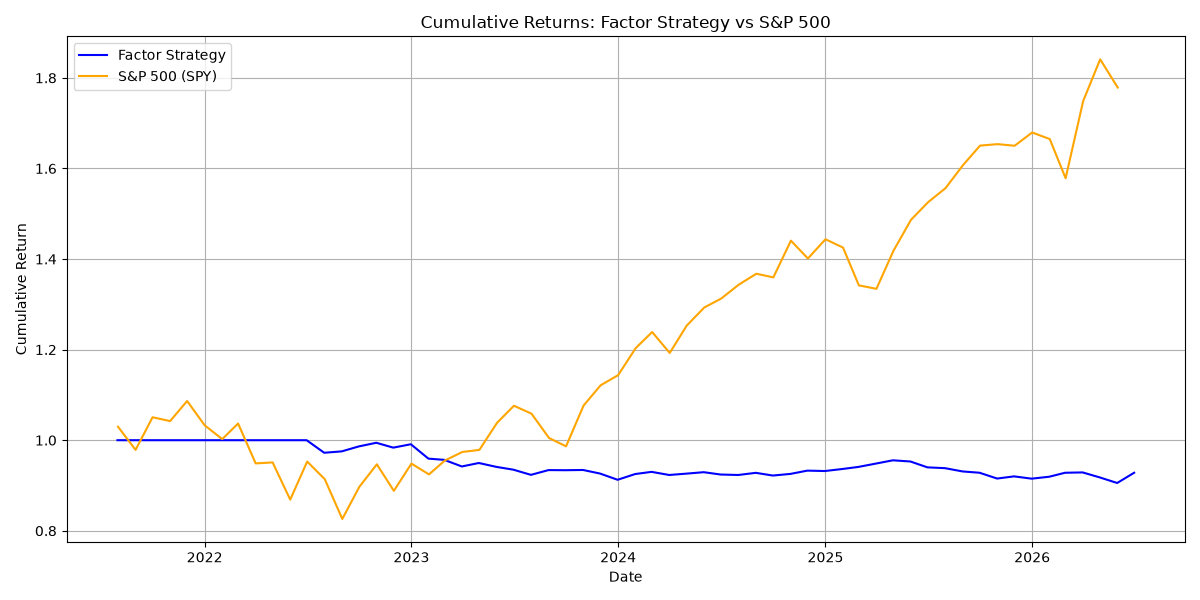
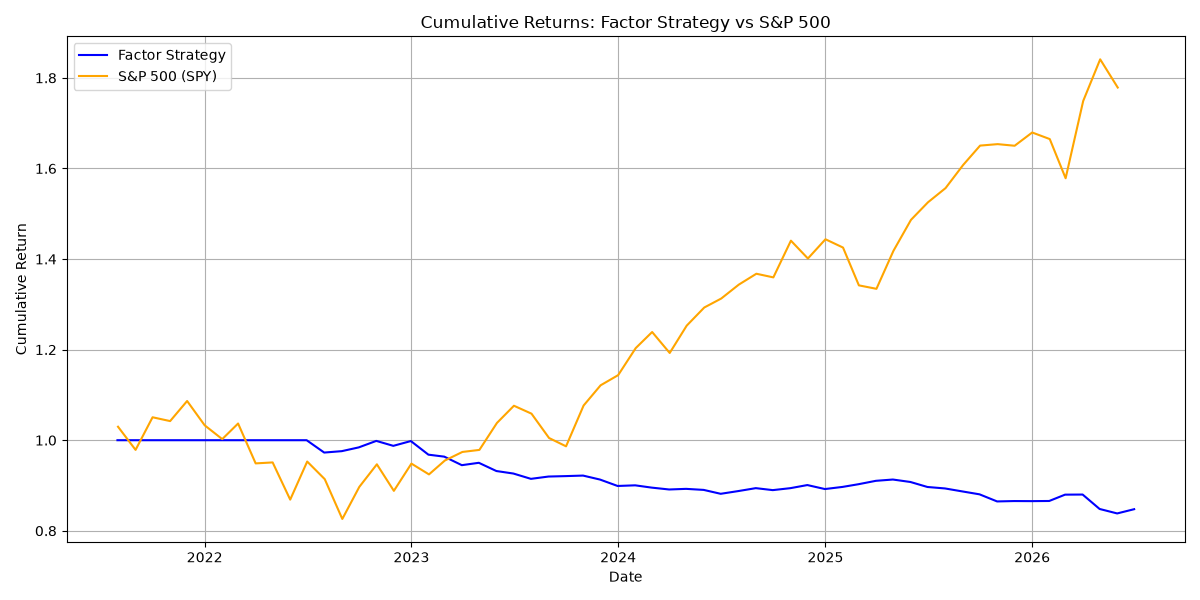
Add SMB factor and SQLite caching; note SMB limitation in large-cap universe

Changed region(s): [[0.3083, 0.72, 0.9558, 0.84], [0.925, 0.84, 0.9558, 0.87]]

diff --git a/src/factors.py b/src/factors.py
@@ -14,13 +14,30 @@ def compute_volatility(prices):
 def compute_value(tickers):
     pe_ratios = {}
     for ticker in tickers:
-        info = yf.Ticker(ticker).info
-        pe = info.get('trailingPE')
+        try:
+            info = yf.Ticker(ticker).info
+            pe = info.get('trailingPE')
+        except Exception:
+            pe = None
         pe_ratios[ticker] = pe
     pe_series = pd.Series(pe_ratios)
     pe_series = pe_series.fillna(pe_series.median())
     pe_series = -pe_series
     return pe_series
+
+def compute_smb(tickers):
+    market_caps = {}
+    for ticker in tickers:
+        try:
+            info = yf.Ticker(ticker).info
+            mc = info.get('marketCap')
+        except Exception:
+            mc = None
+        market_caps[ticker] = mc
+    mc_series = pd.Series(market_caps)
+    mc_series = mc_series.fillna(mc_series.median())
+    mc_series = -mc_series
+    return mc_series
 
 if __name__ == "__main__":
     from data_loader import load_all_prices, SP100_TICKERS
@@ -28,6 +45,6 @@ if __name__ == "__main__":
     momentum = compute_momentum(prices)
     volatility = compute_volatility(prices)
     value = compute_value(SP100_TICKERS)
-    print(value.head(10))
-    print(f"Missing P/E values: {value.isnull().sum()}")
-    print(f"Negative P/E values: {(value < 0).sum()}")
+    smb = compute_smb(SP100_TICKERS)
+    print(smb.head(10))
+    print(f"Missing SMB values: {smb.isnull().sum()}")

diff --git a/src/portfolio.py b/src/portfolio.py
@@ -3,16 +3,22 @@ import pandas as pd
 def zscore(df):
     return (df - df.mean()) / df.std()
 
-def construct_portfolio(momentum, volatility, value):
+def construct_portfolio(momentum, volatility, value, smb):
     value_monthly = pd.DataFrame(
-        [value] * len(momentum), 
-        index=momentum.index, 
+        [value] * len(momentum),
+        index=momentum.index,
+        columns=momentum.columns
+    )
+    smb_monthly = pd.DataFrame(
+        [smb] * len(momentum),
+        index=momentum.index,
         columns=momentum.columns
     )
     mom_z = zscore(momentum.T).T
     vol_z = -zscore(volatility.resample('ME').last().T).T
     val_z = zscore(value_monthly.T).T
-    composite = mom_z + vol_z + val_z
+    smb_z = zscore(smb_monthly.T).T
+    composite = mom_z + vol_z + val_z + smb_z
     return composite
 
 def assign_positions(composite):
@@ -24,14 +30,17 @@ def assign_positions(composite):
 
 if __name__ == "__main__":
     from data_loader import load_all_prices, SP100_TICKERS
-    from factors import compute_momentum, compute_volatility, compute_value
-    
+    from factors import compute_momentum, compute_volatility, compute_value, compute_smb
+
     prices = load_all_prices()
     momentum = compute_momentum(prices)
     volatility = compute_volatility(prices)
     value = compute_value(SP100_TICKERS)
-    
-    composite = construct_portfolio(momentum, volatility, value)
+    smb = compute_smb(SP100_TICKERS)
+
+    composite = construct_portfolio(momentum, volatility, value, smb)
     positions = assign_positions(composite)
     print(positions.tail())
     print(positions.tail().sum(axis=1))
+    
+    

diff --git a/src/backtest.py b/src/backtest.py
@@ -8,15 +8,16 @@ def run_backtest(prices, positions):
 
 if __name__ == "__main__":
     from data_loader import load_all_prices, SP100_TICKERS
-    from factors import compute_momentum, compute_volatility, compute_value
+    from factors import compute_momentum, compute_volatility, compute_value, compute_smb
     from portfolio import construct_portfolio, assign_positions
 
     prices = load_all_prices()
     momentum = compute_momentum(prices)
     volatility = compute_volatility(prices)
     value = compute_value(SP100_TICKERS)
-    composite = construct_portfolio(momentum, volatility, value)
+    smb = compute_smb(SP100_TICKERS)
+    composite = construct_portfolio(momentum, volatility, value, smb)
     positions = assign_positions(composite)
-    
+
     returns = run_backtest(prices, positions)
     print(returns.tail(12))

diff --git a/src/performance.py b/src/performance.py
@@ -36,7 +36,7 @@ def plot_cumulative_returns(returns):
 
 if __name__ == "__main__":
     from data_loader import load_all_prices, SP100_TICKERS
-    from factors import compute_momentum, compute_volatility, compute_value
+    from factors import compute_momentum, compute_volatility, compute_value, compute_smb
     from portfolio import construct_portfolio, assign_positions
     from backtest import run_backtest
 
@@ -44,7 +44,8 @@ if __name__ == "__main__":
     momentum = compute_momentum(prices)
     volatility = compute_volatility(prices)
     value = compute_value(SP100_TICKERS)
-    composite = construct_portfolio(momentum, volatility, value)
+    smb = compute_smb(SP100_TICKERS)
+    composite = construct_portfolio(momentum, volatility, value, smb)
     positions = assign_positions(composite)
     returns = run_backtest(prices, positions)
 